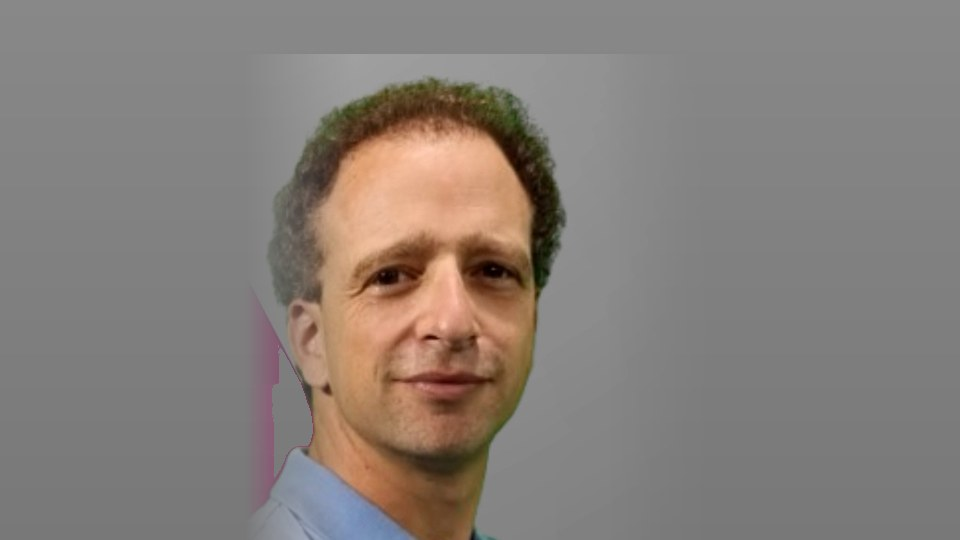
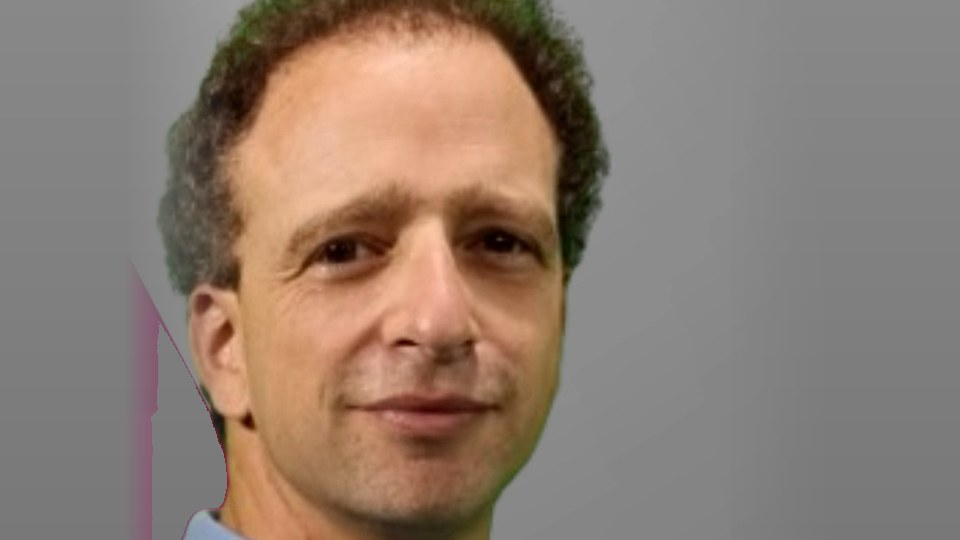
Add files via upload

diff --git a/tools/recadrer-visages.py b/tools/recadrer-visages.py
@@ -1,0 +1,79 @@
+from PIL import Image, ImageFilter
+U='/root/.claude/uploads/72f39b20-d8f1-5d27-a77f-986f1c83528b/'
+W,H=960,540
+OEIL, TETE = 0.45, 0.62        # normes de la serie
+
+def composer(sujet, largeur, y0, fond=None, plume=90):
+    h=round(sujet.height*largeur/sujet.width)
+    s=sujet.resize((largeur,h), Image.LANCZOS)
+    alpha = s.getchannel('A') if s.mode == 'RGBA' else None
+    s = s.convert('RGB')
+    if fond is None:
+        f=sujet.resize((W, round(sujet.height*W/sujet.width)), Image.LANCZOS)
+        haut=max(0,(f.height-H)//3)
+        fond=f.crop((0,haut,W,haut+H)).filter(ImageFilter.GaussianBlur(40))
+    fond=fond.copy()
+    m = alpha.copy() if alpha is not None else Image.new('L', s.size, 255)
+    px=m.load()
+    pl=min(plume, largeur//2)
+    for x in range(pl):
+        v=round(255*x/pl)
+        for y in range(s.height): px[x,y]=v; px[largeur-1-x,y]=v
+    fond.paste(s, ((W-largeur)//2, y0), m)
+    return fond
+
+def cadrer(sujet, oeil_src, tete_src, menton_src, fond=None, plume=90):
+    """Place le sujet pour que les yeux tombent a 45 % et que la tete mesure
+    58 % de la hauteur. oeil/tete/menton sont donnes dans les coordonnees du
+    sujet fourni."""
+    k = (TETE*H) / (menton_src - tete_src)
+    largeur = round(sujet.width * k)
+    y0 = round(OEIL*H - oeil_src*k)
+    return composer(sujet, largeur, y0, fond, plume)
+
+gris = Image.new('RGB',(W,H)); px=gris.load()
+for y in range(H):
+    v=round(136+(120-136)*(y/(H-1)))
+    for x in range(W): px[x,y]=(v,v,v)
+
+# --- Sujets, avec les reperes releves sur chaque source ---------------------
+src=Image.open(U+'e4cf5b54-William_photo_teaserdetouree.png').convert('RGBA')
+w=src.crop(src.getchannel('A').getbbox())          # 392 x 554
+navy=Image.new('RGB',(W,H),(24,0,88))
+cadrer(w, oeil_src=118, tete_src=35, menton_src=210, fond=navy, plume=0)\
+  .save('assets/visages/william-zerbib.jpg', quality=88, optimize=True)
+
+src=Image.open(U+'dcb47597-pq_goldin.png').convert('RGB')
+cadrer(src.crop((0,18,470,700)), oeil_src=222, tete_src=20, menton_src=316)\
+  .save('assets/visages/stephane-goldin.jpg', quality=88, optimize=True)
+
+src=Image.open(U+'7089a05b-WhatsApp_Image_20260611_at_19.27.52.jpeg').convert('RGB')
+cadrer(src.crop((393,228,971,900)), oeil_src=128, tete_src=7, menton_src=277)\
+  .save('assets/visages/rony-akrich.jpg', quality=88, optimize=True)
+
+src=Image.open(U+'702f4c2e-photo_de_Jerome.jpg').convert('RGB')
+img=cadrer(src.crop((1360,8,1870,700)), oeil_src=236, tete_src=90, menton_src=330, fond=gris, plume=110)
+p=img.load()
+for y in range(H):
+    v=round(136+(120-136)*(y/(H-1)))
+    for x in range(W):
+        r,g,b=p[x,y]
+        if r>g+45 and b>g+25 and r>110: p[x,y]=(v,v,v)
+img.save('assets/visages/jerome-haas.jpg', quality=88, optimize=True)
+
+# Rony Hayot : son fond est un mur uni. On le prolonge par un aplat de la meme
+# couleur plutot que par un flou etire, qui rendait la peripherie moutonneuse.
+src=Image.open(U+'a387d2ff-rony_hayot.jpeg').convert('RGB')
+coin = src.crop((0,0,60,200)).resize((1,1), Image.LANCZOS).getpixel((0,0))
+cadrer(src, oeil_src=215, tete_src=25, menton_src=395,
+       fond=Image.new('RGB',(W,H),coin))\
+  .save('assets/visages/rony-hayot.jpg', quality=88, optimize=True)
+
+src=Image.open(U+'1a3de936-MD_vignette.jpg').convert('RGB')
+cadrer(src.crop((330,150,1500,900)), oeil_src=318, tete_src=78, menton_src=470)\
+  .save('assets/visages/myriam-danan.jpg', quality=88, optimize=True)
+
+src=Image.open(U+'cbe31bec-RICHARDDARMONReport2.jpg').convert('RGB')
+cadrer(src.crop((0,0,600,760)), oeil_src=232, tete_src=60, menton_src=372)\
+  .save('assets/visages/richard-darmon.jpg', quality=88, optimize=True)
+print('sept visages recadres')
